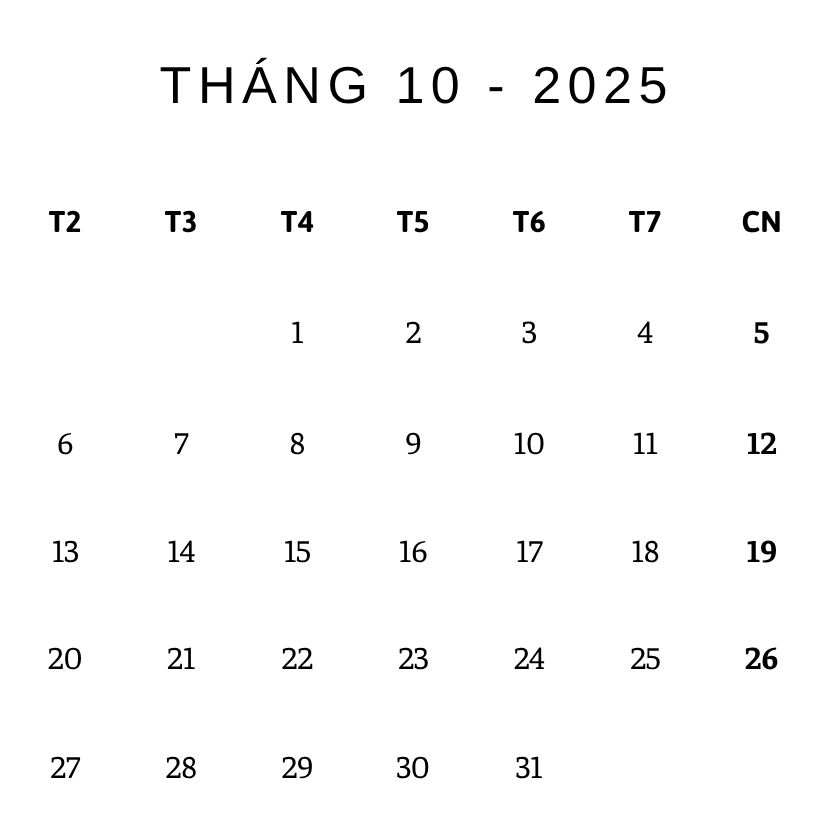
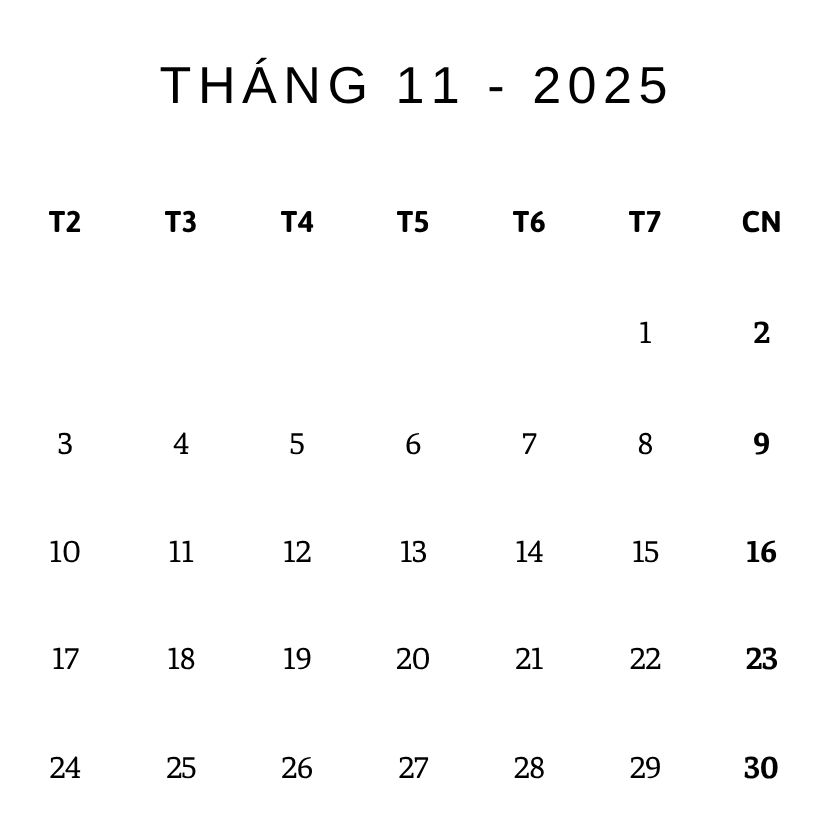
update code

diff --git a/index.html b/index.html
@@ -2280,11 +2280,11 @@
         }
 
         #w-hs9njuu7 .image-background {
-            width: 400px;
-            height: 262px;
+            width: 414px;
+            height: 274px;
             top: 0px;
-            left: -33px;
-            background: center center/ contain no-repeat content-box border-box url("./images/2.2.jpg");
+            left: -27px;
+            background: center center/ contain no-repeat content-box border-box url("./images/8.jpg");
             --type: 0;
         }
 
@@ -2719,7 +2719,7 @@
             left: 0px;
             position: relative;
             width: 420px;
-            height: 372px;
+            height: 340px;
         }
 
         #w-frfn2a1z .section-wrapper {
@@ -2736,7 +2736,7 @@
         }
 
         #w-3m9ley3f {
-            top: 0px;
+            top: -38px;
             left: 5.5px;
             width: 409px;
             height: 362px;
@@ -2766,8 +2766,8 @@
         }
 
         #w-q5ac8dqm {
-            top: 319px;
-            left: 139.013855px;
+            top: 135px;
+            left: 296.013855px;
             width: 45px;
             height: 45px;
         }
@@ -2800,7 +2800,7 @@
             left: 0px;
             position: relative;
             width: 420px;
-            height: 550px;
+            height: 455px;
         }
 
         #w-gxpbejzi .section-wrapper {
@@ -2817,7 +2817,7 @@
         }
 
         #w-b8ao84la {
-            top: 185.5px;
+            top: 100px;
             left: 0.5px;
             width: 414px;
             height: 42px;
@@ -2836,7 +2836,7 @@
         }
 
         #w-8799m2jd {
-            top: 155px;
+            top: 70px;
             left: -0.5px;
             width: 421px;
             height: 27px;
@@ -2855,7 +2855,7 @@
         }
 
         #w-i7ym6cbi {
-            top: 230px;
+            top: 140px;
             left: 140px;
             width: 140px;
             height: 32px;
@@ -2874,7 +2874,7 @@
         }
 
         #w-4y6khmrv {
-            top: 290px;
+            top: 197px;
             left: 32.5px;
             width: 355px;
             height: 235px;
@@ -2887,7 +2887,7 @@
         }
 
         #w-m1kk35d9 {
-            top: 292px;
+            top: 200px;
             left: 35px;
             width: 350px;
             height: 230px;
@@ -5888,11 +5888,11 @@
         }
 
         #w-hs9njuu7 .image-background {
-            width: 400px;
-            height: 262px;
+            width: 414px;
+            height: 274px;
             top: 0px;
-            left: -33px;
-            background: center center/ contain no-repeat content-box border-box url("./images/2.2.jpg");
+            left: -27px;
+            background: center center/ contain no-repeat content-box border-box url("./images/8.jpg");
             --type: 0;
         }
 
@@ -6327,7 +6327,7 @@
             left: 0px;
             position: relative;
             width: 420px;
-            height: 372px;
+            height: 340px;
         }
 
         #w-frfn2a1z .section-wrapper {
@@ -6344,7 +6344,7 @@
         }
 
         #w-3m9ley3f {
-            top: 0px;
+            top: -38px;
             left: 5.5px;
             width: 409px;
             height: 362px;
@@ -6374,8 +6374,8 @@
         }
 
         #w-q5ac8dqm {
-            top: 319px;
-            left: 139.013855px;
+            top: 135px;
+            left: 296.013855px;
             width: 45px;
             height: 45px;
         }
@@ -6408,7 +6408,7 @@
             left: 0px;
             position: relative;
             width: 420px;
-            height: 550px;
+            height: 455px;
         }
 
         #w-gxpbejzi .section-wrapper {
@@ -6425,7 +6425,7 @@
         }
 
         #w-b8ao84la {
-            top: 185.5px;
+            top: 100px;
             left: 0.5px;
             width: 414px;
             height: 42px;
@@ -6444,7 +6444,7 @@
         }
 
         #w-8799m2jd {
-            top: 155.5px;
+            top: 70px;
             left: -0.5px;
             width: 421px;
             height: 27px;
@@ -6463,7 +6463,7 @@
         }
 
         #w-i7ym6cbi {
-            top: 230px;
+            top: 140px;
             left: 140px;
             width: 140px;
             height: 32px;
@@ -6482,7 +6482,7 @@
         }
 
         #w-4y6khmrv {
-            top: 290px;
+            top: 197px;
             left: 32.5px;
             width: 355px;
             height: 235px;
@@ -6495,7 +6495,7 @@
         }
 
         #w-m1kk35d9 {
-            top: 292px;
+            top: 200px;
             left: 35px;
             width: 350px;
             height: 230px;
@@ -8793,10 +8793,10 @@
                     </div>
                     <div id="w-trta43bz" class="com-text-block p-absolute is-animation">
                         <div class="text-block">
-                            <p class="text-block-css full-width">(Tức Ngày 09 Tháng 09 Năm Ất Tỵ)<br></p>
+                            <p class="text-block-css full-width">(Tức Ngày 19 Tháng 09 Năm Ất Tỵ)<br></p>
                         </div>
                     </div>
-                    <div id="w-pdl931a6" class="com-text-block p-absolute is-animation">
+                    <div style="display: none;" id="w-pdl931a6" class="com-text-block p-absolute is-animation">
                         <div class="text-block">
                             <p class="text-block-css full-width">Tại nhà trai số 7/50/270 Đà Nẵng, phường Ngô Quyền,
                                 thành phố Hải Phòng</p>
@@ -8804,7 +8804,7 @@
                     </div>
                     <div id="w-k8kl83qy" class="com-text-block p-absolute is-animation">
                         <div class="text-block">
-                            <p class="text-block-css full-width"><span style="font-weight: bold;">Tháng 10</span><br>
+                            <p class="text-block-css full-width"><span style="font-weight: bold;">Tháng 11</span><br>
                             </p>
                         </div>
                     </div>
@@ -8835,12 +8835,12 @@
                     </div>
                     <div id="w-rvjhix10" class="com-text-block p-absolute is-animation">
                         <div class="text-block">
-                            <p class="text-block-css full-width">Vào Lúc 10h00 | Thứ 4</p>
+                            <p class="text-block-css full-width">Vào Lúc 17h30 | Thứ 7</p>
                         </div>
                     </div>
                     <div id="w-0m3cmvaa" class="com-text-block p-absolute is-animation">
                         <div class="text-block">
-                            <p class="text-block-css full-width">29<br></p>
+                            <p class="text-block-css full-width">8<br></p>
                         </div>
                     </div>
                     <div id="w-2z4vbngp" class="com-image-block p-absolute is-animation">
@@ -8893,37 +8893,40 @@
                                     Trung tâm tiệc cưới Lạc Hồng</span><br></p>
                         </div>
                     </div>
-                    <div id="w-k8kl83qy" class="com-text-block p-absolute is-animation clone-w-k8kl83qy">
+                    <div style="display: none;" id="w-k8kl83qy"
+                        class="com-text-block p-absolute is-animation clone-w-k8kl83qy">
                         <div class="text-block">
                             <p class="text-block-css full-width"><span style="font-weight: bold;">Tháng 11</span><br>
                             </p>
                         </div>
                     </div>
-                    <div id="w-kbgnz2rp" class="com-text-block p-absolute is-animation clone-w-kbgnz2rp">
+                    <div style="display: none;" id="w-kbgnz2rp"
+                        class="com-text-block p-absolute is-animation clone-w-kbgnz2rp">
                         <div class="text-block">
                             <p class="text-block-css full-width">2025<br></p>
                         </div>
                     </div>
-                    <div id="w-s2av0vl0" class="p-absolute is-animation clone-w-s2av0vl0">
+                    <div style="display: none;" id="w-s2av0vl0" class="p-absolute is-animation clone-w-s2av0vl0">
                         <div class="full-width full-height">
                             <div class="line-css full-width">
                                 <div class="line-container"></div>
                             </div>
                         </div>
                     </div>
-                    <div id="w-bifzmam8" class="p-absolute is-animation clone-w-bifzmam8">
+                    <div style="display: none;" id="w-bifzmam8" class="p-absolute is-animation clone-w-bifzmam8">
                         <div class="full-width full-height">
                             <div class="line-css full-width">
                                 <div class="line-container"></div>
                             </div>
                         </div>
                     </div>
-                    <div id="w-rvjhix10" class="com-text-block p-absolute animation clone-time">
+                    <div style="display: none;" id="w-rvjhix10" class="com-text-block p-absolute animation clone-time">
                         <div class="text-block">
                             <p class="text-block-css full-width">Vào Lúc 17h30 | Thứ 7</p>
                         </div>
                     </div>
-                    <div id="w-0m3cmvaa" class="com-text-block p-absolute animation clone-w-0m3cmvaa">
+                    <div style="display: none;" id="w-0m3cmvaa" style="display: none;"
+                        class="com-text-block p-absolute animation clone-w-0m3cmvaa">
                         <div class="text-block">
                             <p class="text-block-css full-width">08<br></p>
                         </div>
